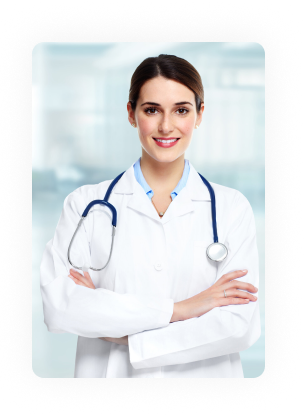
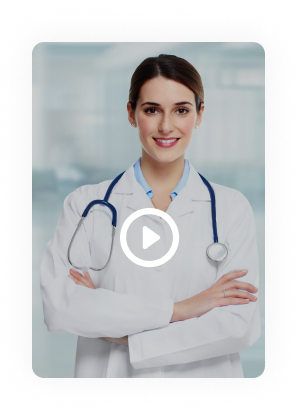
Setup: Live Doctors

diff --git a/lib/features/live_stream_view/presentation/live_stream_builder.dart b/lib/features/live_stream_view/presentation/live_stream_builder.dart
@@ -1,3 +1,4 @@
+import 'package:doctor_hunt/core/constants/app_image.dart';
 import 'package:doctor_hunt/core/constants/app_text.dart';
 import 'package:doctor_hunt/features/live_stream_view/model/live_stream_model.dart';
 import 'package:flutter/material.dart';
@@ -14,7 +15,7 @@ class LiveStreamBuilder extends StatelessWidget {
 
     return Container(
       margin: const EdgeInsets.symmetric(horizontal: 16, vertical: 16),
-      padding: const EdgeInsets.all(8),
+      // padding: const EdgeInsets.all(16),
       child: Column(
         crossAxisAlignment: CrossAxisAlignment.start,
         mainAxisAlignment: MainAxisAlignment.start,
@@ -35,12 +36,24 @@ class LiveStreamBuilder extends StatelessWidget {
                   width: width * 0.32,
                   height: height * 0.3,
                   decoration: BoxDecoration(
-                    // color: Colors.grey[400],
                     borderRadius: BorderRadius.circular(10),
                   ),
-                  child: Image.asset(
-                    liveStreamList[index].image,
-                    fit: BoxFit.fill,
+                  child: Stack(
+                    children: [
+                      Image.asset(
+                        liveStreamList[index].image,
+                        fit: BoxFit.cover,
+                      ),
+                      // Positioned(
+                      //   top: 20,
+                      //   right: 15,
+                      //   child: Image.asset(
+                      //     AppImage.liveIcon,
+                      //     fit: BoxFit.cover,
+                      //     height: 20,
+                      //   ),
+                      // ),
+                    ],
                   ),
                 );
               },

diff --git a/lib/features/live_stream_view/model/live_stream_model.dart b/lib/features/live_stream_view/model/live_stream_model.dart
@@ -1,21 +1,27 @@
 import 'package:doctor_hunt/core/constants/app_image.dart';
 
 class LiveStreamModel {
-  final String image;
+  LiveStreamModel({required this.image, this.live});
 
-  LiveStreamModel({required this.image});
+  final String image;
+  final String? live;
 
   factory LiveStreamModel.fromJson(Map<String, dynamic> json) {
-    return LiveStreamModel(image: json['image'] ?? '');
+    return LiveStreamModel(
+      image: json['image'] ?? '',
+      live: json['live'] ?? '',
+    );
   }
 
   Map<String, dynamic> toJson() {
-    return {'image': image};
+    return {'image': image, 'live': live};
   }
 }
 
 List<LiveStreamModel> liveStreamList = [
   LiveStreamModel(image: AppImage.doctorOneImage),
   LiveStreamModel(image: AppImage.doctorTwoImage),
-  LiveStreamModel(image: AppImage.doctorThreeImage),
+  LiveStreamModel(image: AppImage.doctorTwoImage),
+  LiveStreamModel(image: AppImage.doctorTwoImage),
+  LiveStreamModel(image: AppImage.doctorTwoImage),
 ];

diff --git a/lib/core/constants/app_image.dart b/lib/core/constants/app_image.dart
@@ -3,6 +3,7 @@ class AppImage {
   static String profileImage = "assets/prison_picture/profile_image.png";
   //
   //  Streaming Container image
+  static String liveIcon = "assets/streaming/live_stream.png";
   static String doctorOneImage = 'assets/live_doctors/doctor_one.png';
   static String doctorTwoImage = 'assets/live_doctors/doctor_two.png';
   static String doctorThreeImage = 'assets/live_doctors/doctor_three.png';

diff --git a/lib/features/home_view/presentation/home_view.dart b/lib/features/home_view/presentation/home_view.dart
@@ -1,5 +1,4 @@
 import 'package:doctor_hunt/core/constants/app_colors.dart';
-import 'package:doctor_hunt/core/constants/app_image.dart';
 import 'package:doctor_hunt/core/routes/app_router.dart';
 import 'package:doctor_hunt/features/home_view/presentation/widgets/custom_app_bar.dart';
 import 'package:doctor_hunt/features/live_stream_view/presentation/live_stream_builder.dart';
